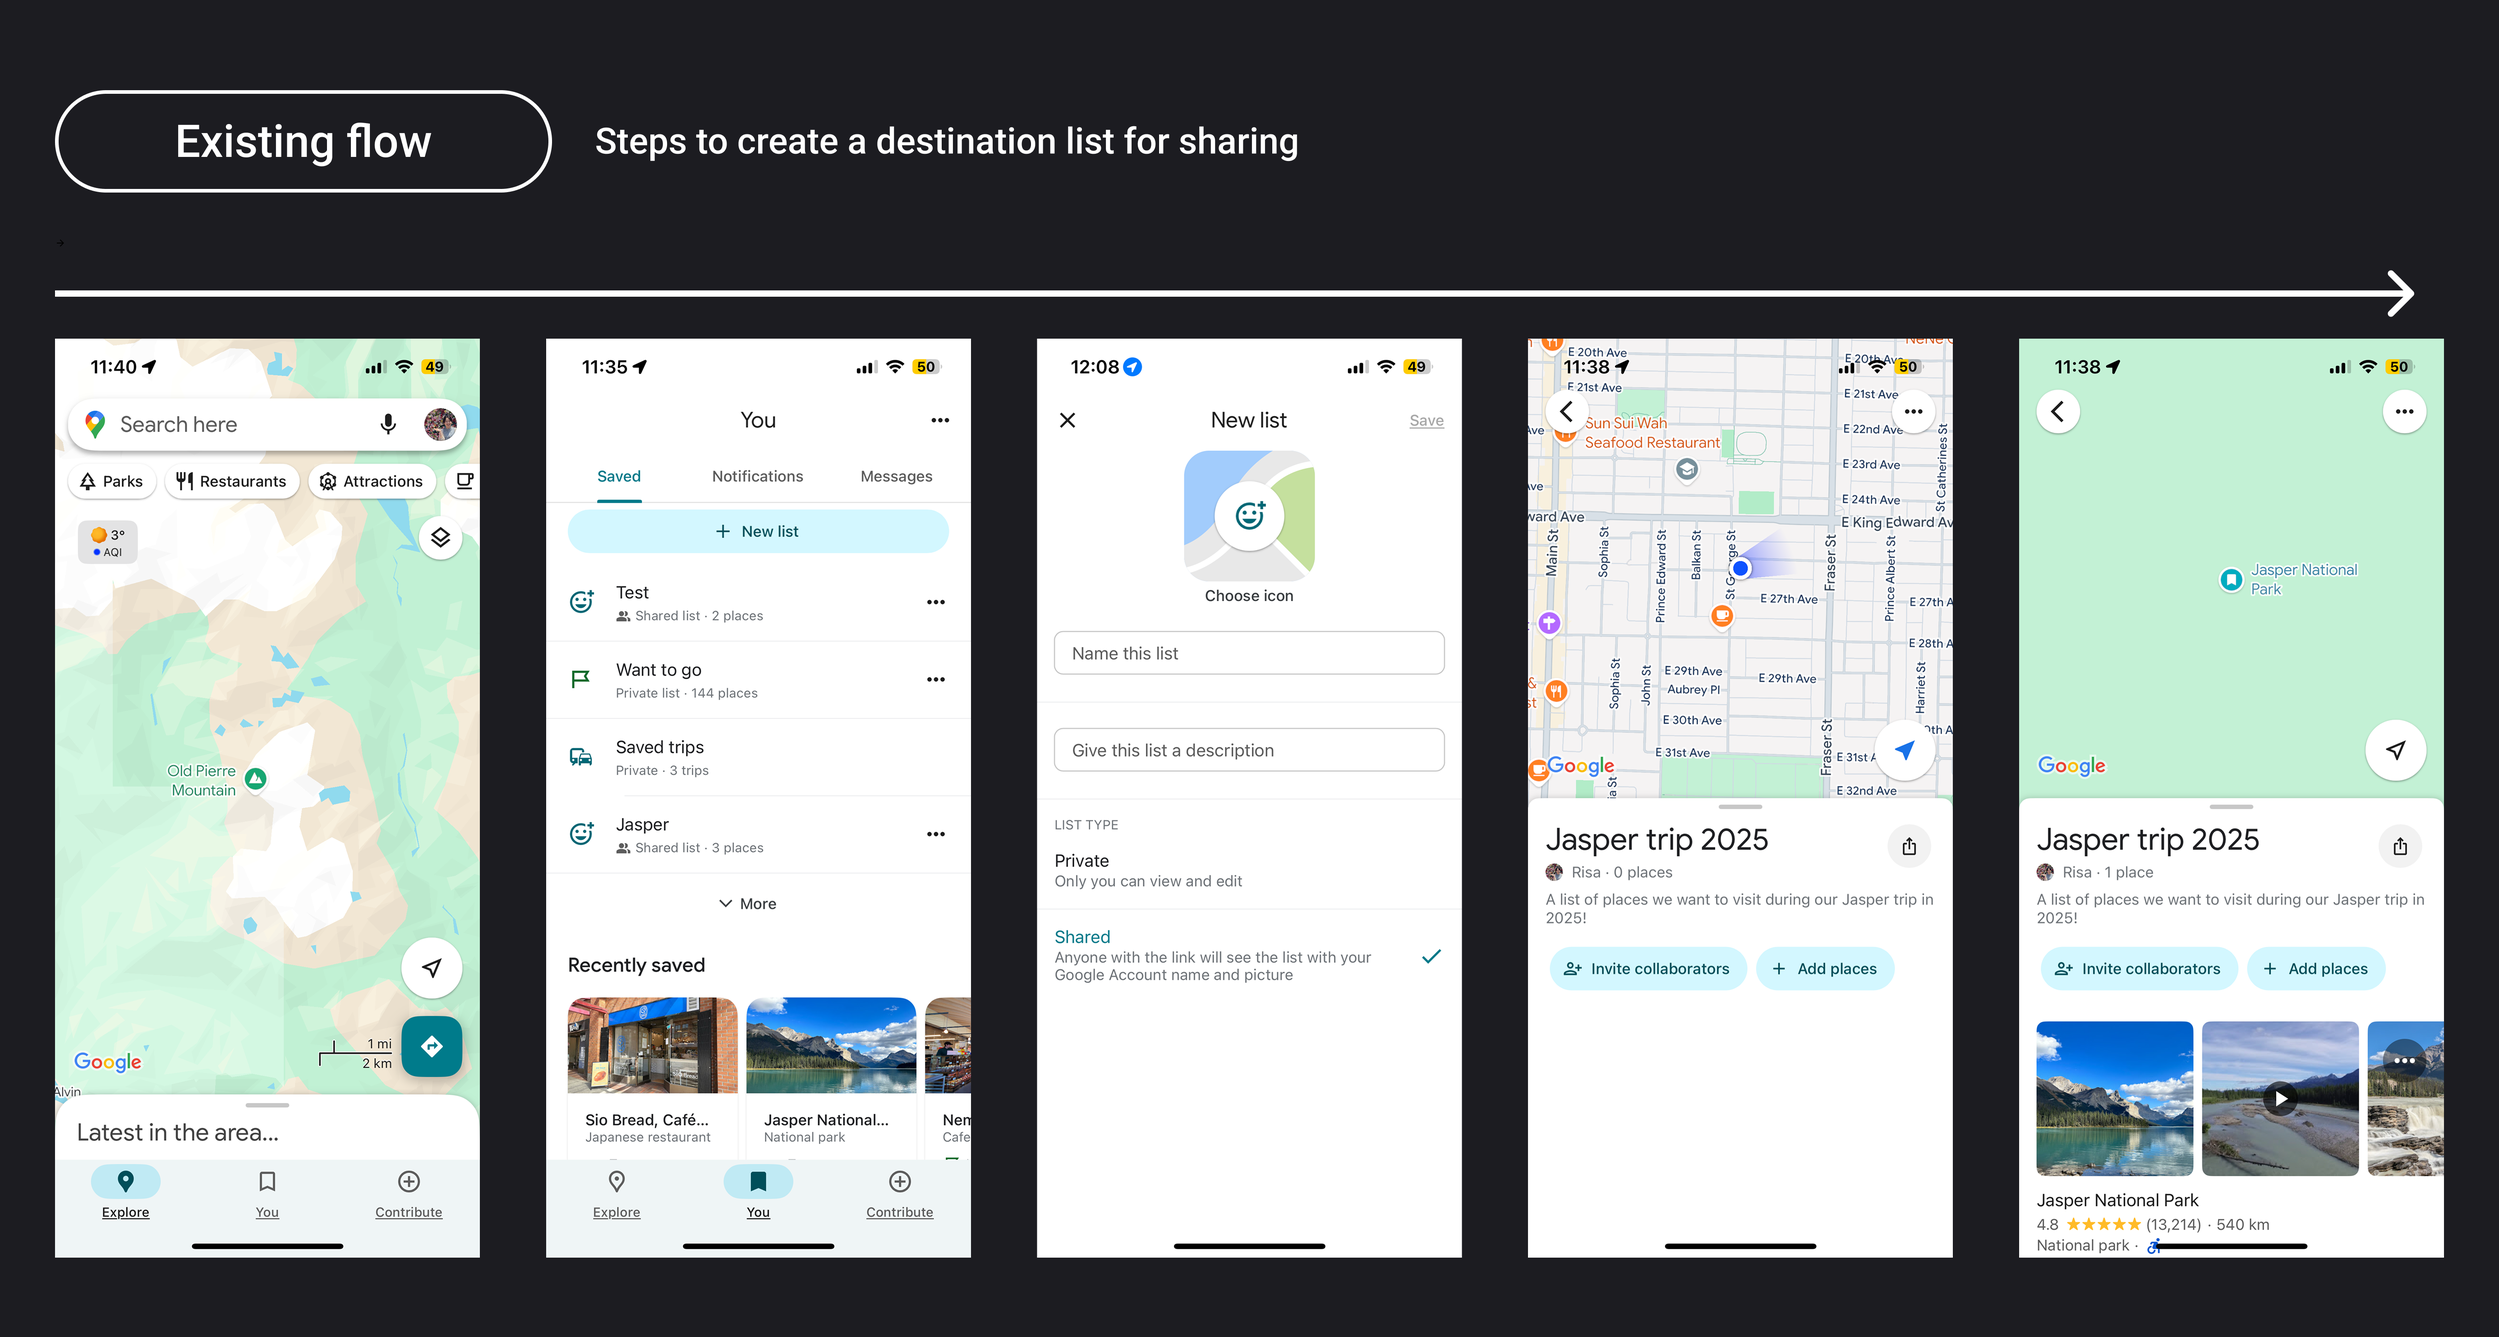
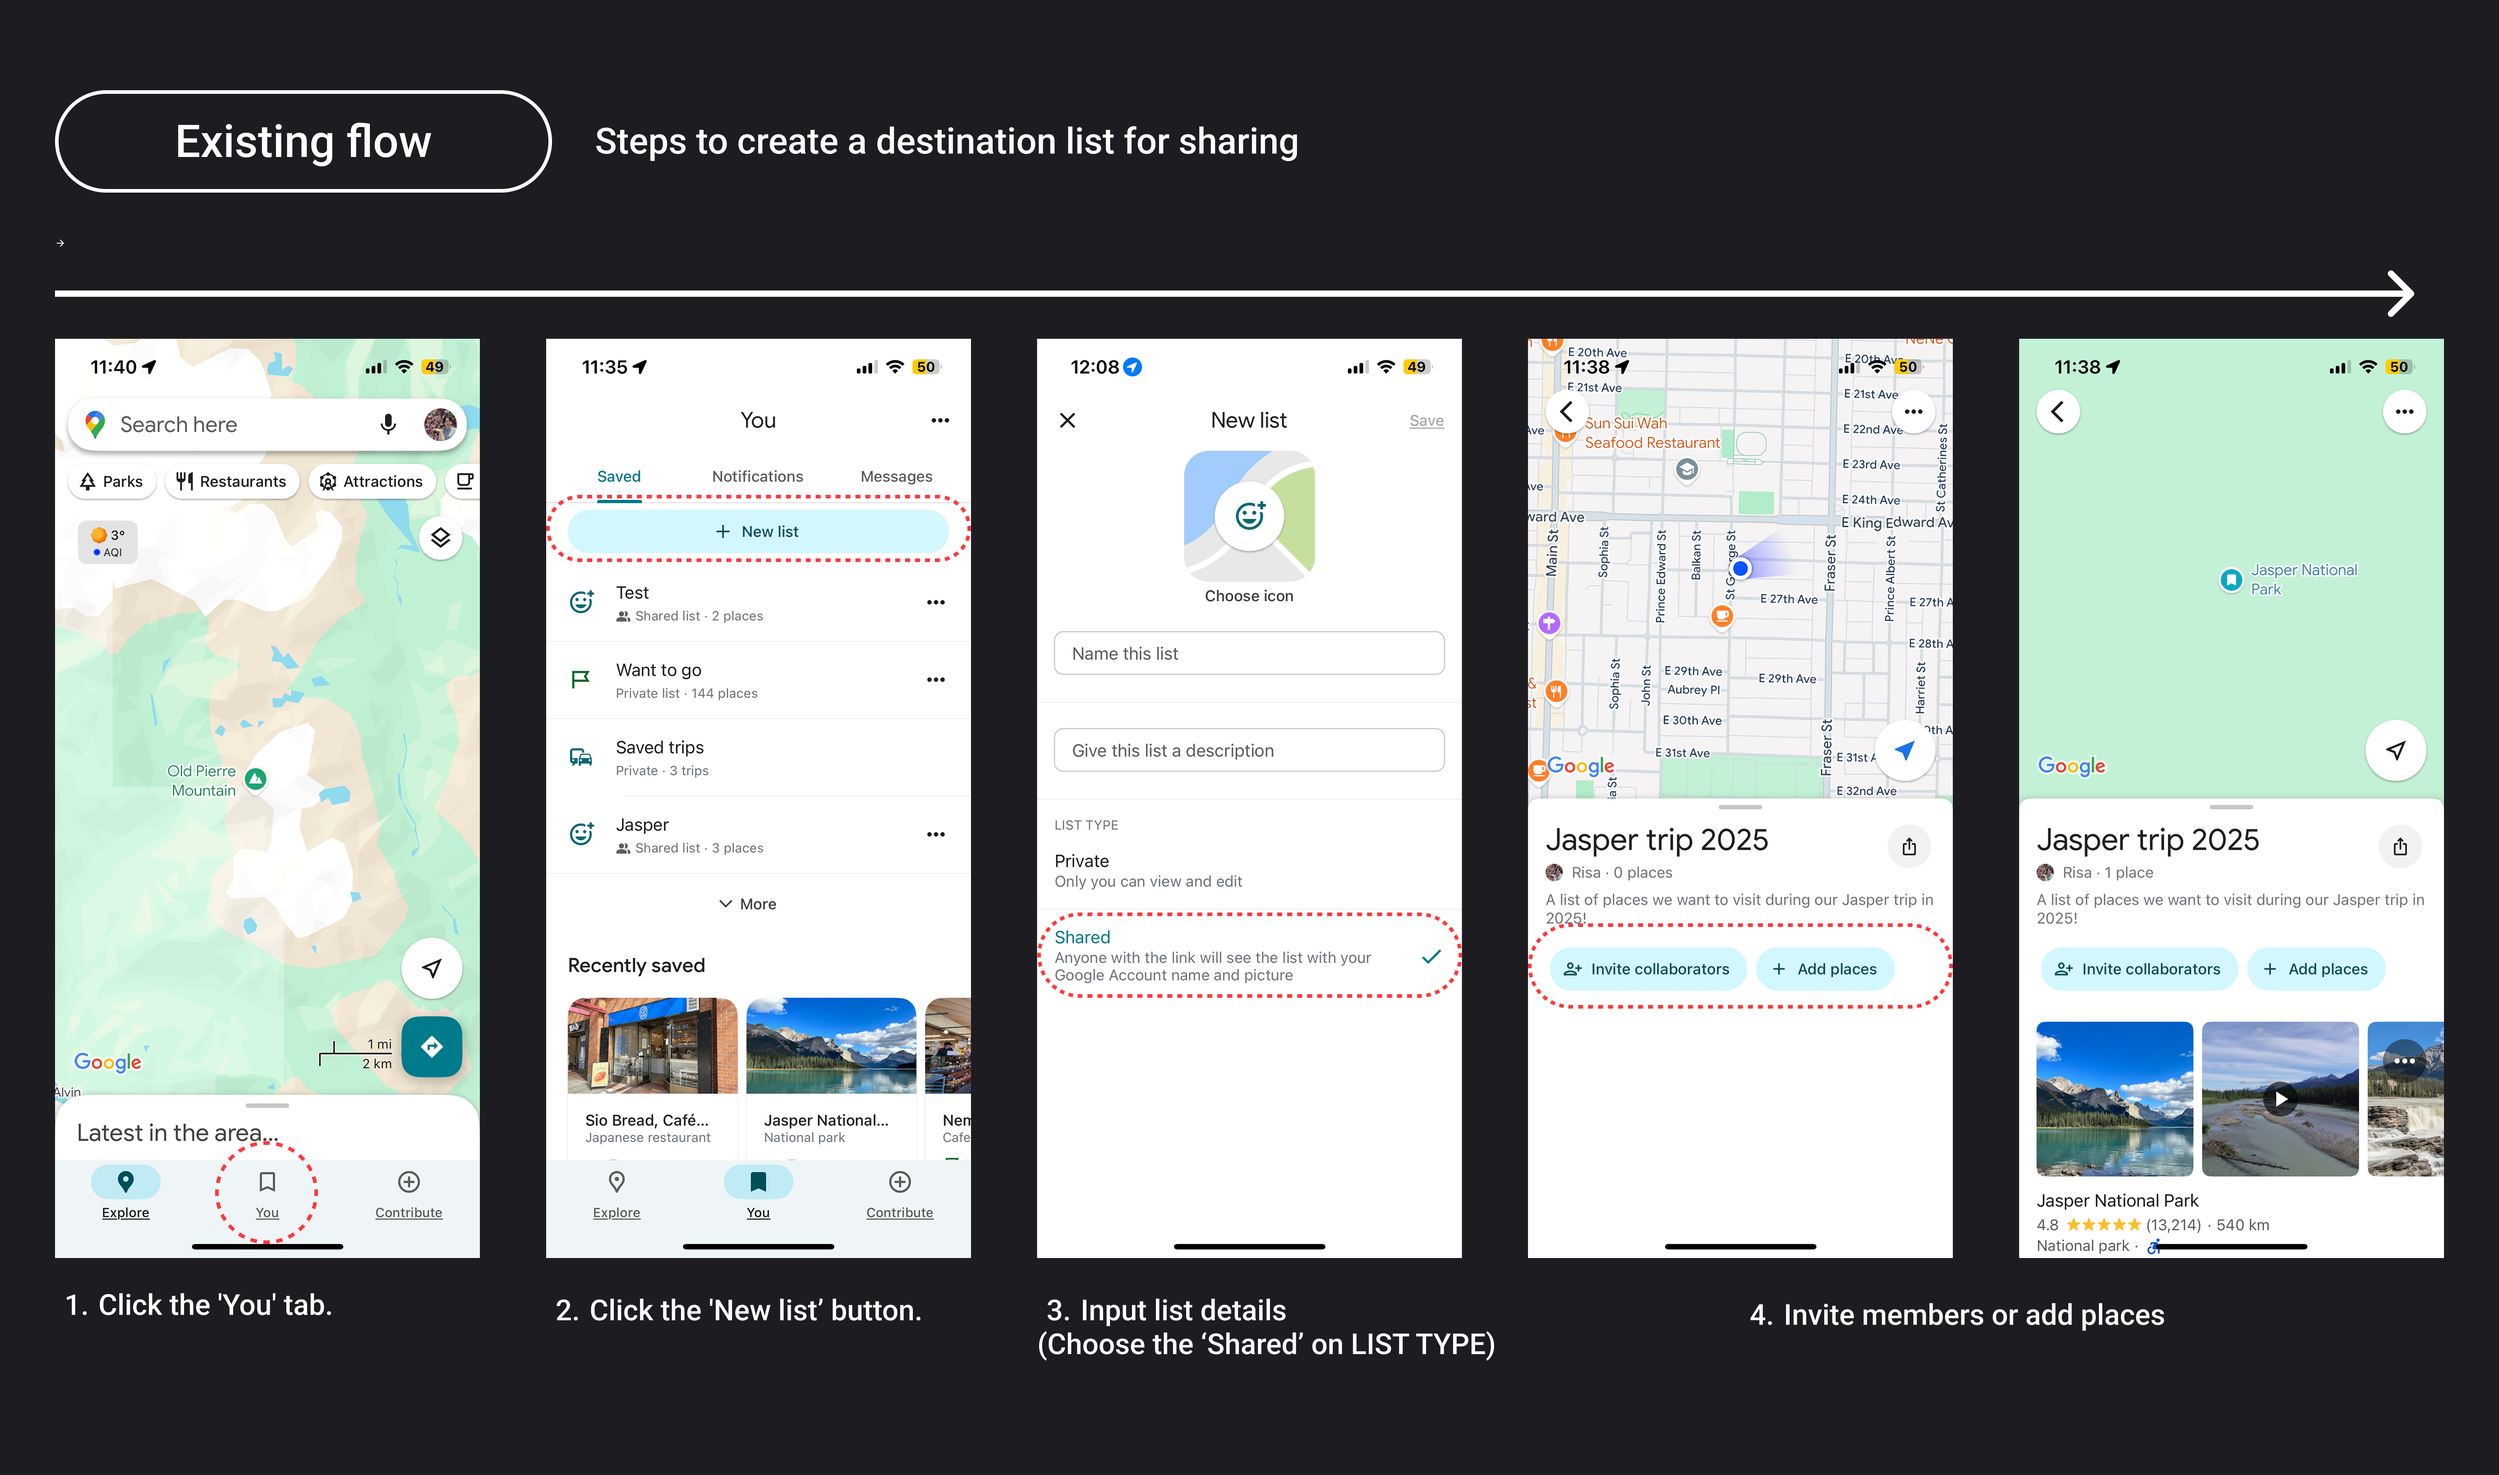
update

diff --git a/src/pages/works/Googlemaps.jsx b/src/pages/works/Googlemaps.jsx
@@ -60,7 +60,7 @@ const GoogleMapsAlbum = () => {
           </h2>
           <p className="text-base leading-relaxed text-gray-700">
             During spring break, I went on a trip to Jasper, Canada, with my
-            classmates. Since it was a group trip, we used a shared Google Maps
+            friends. Since it was a group trip, we used a shared Google Maps
             list to organize and coordinate all of our destinations. After the
             trip, I tried sharing our travel photos through Slack, but quickly
             found the process inconvenient—Slack doesn’t offer an album feature,
